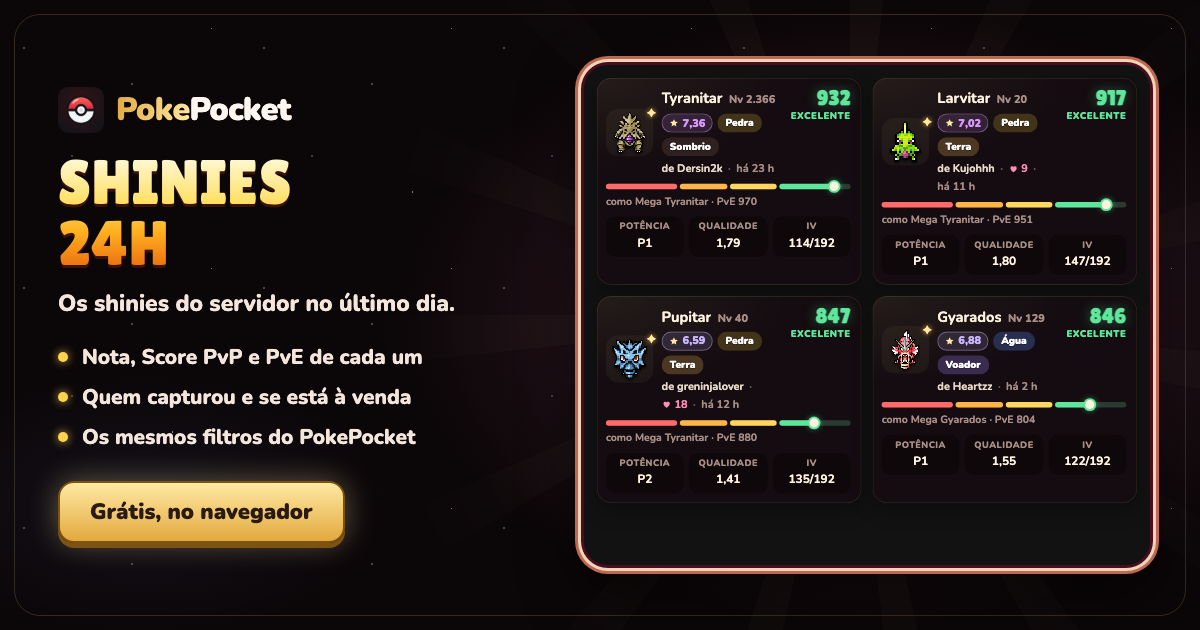
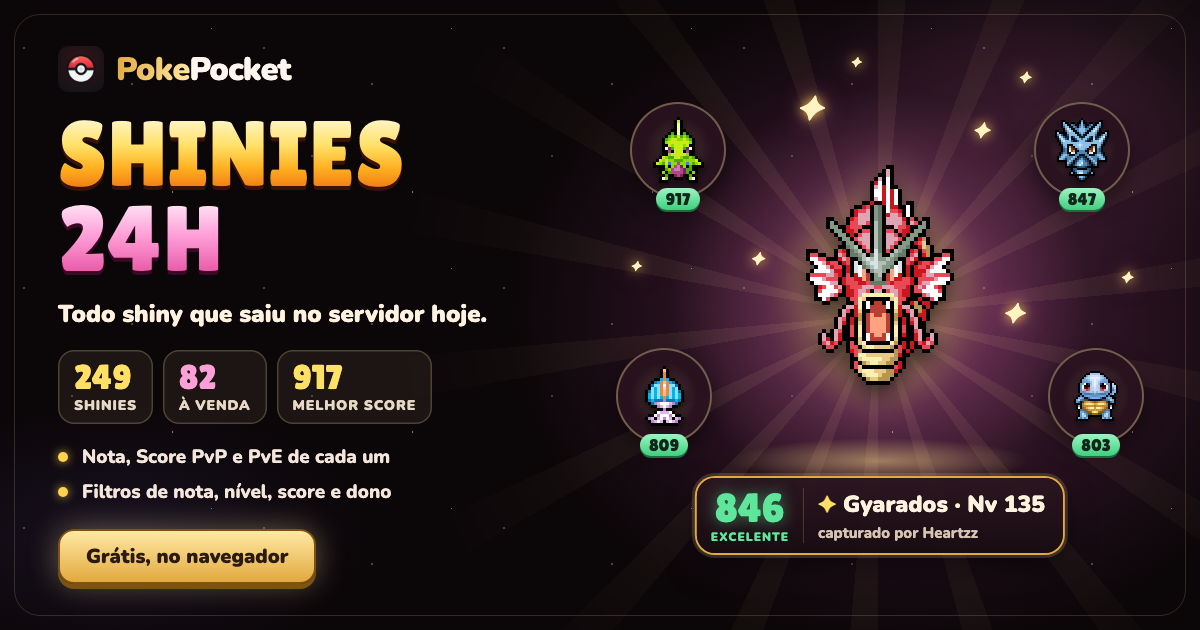
feat(shinies): prévia de link em vitrine com o shiny em destaque

diff --git a/ferramentas/previas/shinies.html b/ferramentas/previas/shinies.html
@@ -7,25 +7,95 @@
 <title>Prévia dos Shinies 24h</title>
 <link rel="stylesheet" href="base.css" />
 <style>
-h1 { font-family: "Lilita"; font-weight: 400; font-size: 62px; line-height: 0.98; letter-spacing: 0.01em; text-transform: uppercase; background: linear-gradient(180deg, #fffbe0 0%, #ffe066 40%, #ffb020 65%, #e8650f 100%); -webkit-background-clip: text; background-clip: text; color: transparent; filter: drop-shadow(0 3px 0 #3b1208); }
-.sub { margin-top: 14px; font-size: 23px; font-weight: 800; color: #f5e6dc; }
-.painel { position: absolute; left: 584px; top: 50%; width: 566px; height: 500px; overflow: hidden; border-radius: 24px; transform: translateY(-50%); background: #2b1a22; box-shadow: 0 0 0 3px #480e1e, 0 0 0 6px #f1d3b7, 0 0 0 9px #bd6951, 0 24px 60px rgba(0, 0, 0, 0.6); }
-.painel iframe { position: absolute; left: 0; top: 0; width: 620px; height: 560px; border: 0; background: transparent; transform: scale(0.913); transform-origin: 0 0; }
+.fundo { background: radial-gradient(48% 75% at 76% 50%, #4a1f3c 0%, transparent 70%), radial-gradient(30% 40% at 88% 18%, rgba(255, 126, 200, 0.16), transparent 70%), radial-gradient(30% 30% at 10% 85%, rgba(140, 120, 255, 0.1), transparent 70%), #0b0608; }
+.raios { left: 878px; background: repeating-conic-gradient(rgba(255, 220, 140, 0.09) 0deg 5deg, transparent 5deg 20deg); }
+h1 { margin-top: 20px; font-family: "Lilita"; font-weight: 400; font-size: 92px; line-height: 0.92; letter-spacing: 0.01em; text-transform: uppercase; }
+h1 span { display: block; background: linear-gradient(180deg, #fffbe0 0%, #ffe066 40%, #ffb020 66%, #e8650f 100%); -webkit-background-clip: text; background-clip: text; color: transparent; filter: drop-shadow(0 4px 0 #3b1208); }
+h1 span + span { background: linear-gradient(180deg, #fff0fb 0%, #ff9fd8 45%, #e2489a 100%); -webkit-background-clip: text; background-clip: text; filter: drop-shadow(0 4px 0 #3a0a24); }
+.sub { margin-top: 16px; font-size: 24px; font-weight: 900; color: #fff3df; }
+.nums { display: flex; gap: 10px; margin-top: 20px; }
+.num { display: grid; gap: 2px; padding: 10px 16px 9px; border-radius: 16px; background: rgba(255, 233, 163, 0.07); box-shadow: inset 0 0 0 1.5px rgba(255, 233, 163, 0.22); }
+.num b { font-family: "Lilita"; font-weight: 400; font-size: 34px; line-height: 1; color: #ffe066; }
+.num.rosa b { color: #ff9fd8; }
+.num small { font-size: 14px; font-weight: 900; color: #e8d8c6; text-transform: uppercase; letter-spacing: 0.06em; }
+.lista { margin-top: 20px; gap: 9px; }
+.lista li { font-size: 19px; }
+.botao { margin-top: 24px; font-size: 20px; padding: 12px 26px; }
+
+.palco { position: absolute; left: 600px; top: 0; width: 560px; height: 630px; }
+.aura { position: absolute; left: 280px; top: 300px; width: 420px; height: 420px; margin: -210px 0 0 -210px; border-radius: 50%; background: radial-gradient(closest-side, rgba(255, 214, 110, 0.42), rgba(255, 126, 200, 0.18) 55%, transparent); }
+.chao { position: absolute; left: 280px; top: 438px; width: 300px; height: 46px; margin-left: -150px; border-radius: 50%; background: radial-gradient(closest-side, rgba(255, 220, 140, 0.5), transparent); }
+.heroi { position: absolute; left: 280px; top: 300px; display: grid; place-items: center; width: 290px; height: 290px; margin: -170px 0 0 -145px; }
+.heroi img { image-rendering: pixelated; filter: drop-shadow(0 10px 10px rgba(0, 0, 0, 0.6)) drop-shadow(0 0 22px rgba(255, 220, 140, 0.45)); }
+.placa { position: absolute; left: 280px; top: 478px; display: flex; align-items: center; gap: 14px; padding: 10px 18px 10px 14px; border-radius: 18px; transform: translateX(-50%); white-space: nowrap; background: linear-gradient(180deg, rgba(43, 22, 32, 0.96), rgba(24, 12, 18, 0.96)); box-shadow: 0 0 0 2px #e2a93f, 0 0 0 5px rgba(255, 233, 163, 0.16), 0 14px 30px rgba(0, 0, 0, 0.5); }
+.placa .sc { display: grid; justify-items: center; line-height: 1; padding-right: 14px; border-right: 1px solid rgba(255, 233, 163, 0.2); }
+.placa .sc b { font-family: "Lilita"; font-weight: 400; font-size: 40px; color: #5ee69a; text-shadow: 0 0 16px rgba(94, 230, 154, 0.5); }
+.placa .sc small { margin-top: 3px; font-size: 12px; font-weight: 900; color: #5ee69a; letter-spacing: 0.08em; }
+.placa .qm { display: grid; gap: 3px; }
+.placa .qm b { font-size: 23px; font-weight: 900; color: #fff3df; }
+.placa .qm b i { font-style: normal; color: #ffe066; }
+.placa .qm small { font-size: 15px; font-weight: 800; color: #d8c4b4; }
+.mini { position: absolute; display: grid; place-items: center; width: 96px; height: 96px; margin: -48px 0 0 -48px; border-radius: 50%; background: radial-gradient(closest-side, rgba(255, 233, 163, 0.2), rgba(40, 18, 30, 0.92) 70%); box-shadow: inset 0 0 0 2px rgba(255, 233, 163, 0.35), 0 10px 22px rgba(0, 0, 0, 0.45); }
+.mini img { image-rendering: pixelated; filter: drop-shadow(0 3px 3px rgba(0, 0, 0, 0.6)); }
+.mini em { position: absolute; bottom: -12px; padding: 1px 9px; border-radius: 999px; font-style: normal; font-family: "Lilita"; font-size: 17px; color: #10261a; background: linear-gradient(180deg, #9cf5c1, #3fcf7e); box-shadow: 0 2px 0 #1d6b40; }
+.br { position: absolute; color: #fff3c4; text-shadow: 0 0 12px #ffd34d, 0 0 26px rgba(255, 126, 200, 0.6); line-height: 1; }
 </style>
 </head>
 <body>
 <div class="fundo"></div><div class="raios"></div><div class="moldura"></div>
 <div class="esq">
   <div class="marca"><img src="../../assets/icone.png" alt="" /><span><span class="p">Poke</span>Pocket</span></div>
-  <h1 style="margin-top:20px;font-size:62px">Shinies<br />24h</h1>
-  <p class="sub">Os shinies do servidor no último dia.</p>
+  <h1><span>Shinies</span><span>24h</span></h1>
+  <p class="sub">Todo shiny que saiu no servidor hoje.</p>
+  <div class="nums"><span class="num"><b id="n-total">—</b><small>shinies</small></span><span class="num rosa"><b id="n-venda">—</b><small>à venda</small></span><span class="num"><b id="n-top">—</b><small>melhor score</small></span></div>
   <ul class="lista">
     <li><i></i>Nota, Score PvP e PvE de cada um</li>
-    <li><i></i>Quem capturou e se está à venda</li>
-    <li><i></i>Os mesmos filtros do PokePocket</li>
+    <li><i></i>Filtros de nota, nível, score e dono</li>
   </ul>
   <span class="botao">Grátis, no navegador</span>
 </div>
-<div class="painel"><iframe src="../../shinies/?embed" title="Shinies 24h" scrolling="no"></iframe></div>
+<div class="palco" id="palco">
+  <div class="aura"></div><div class="chao"></div>
+</div>
+<script>
+const SPR = '../../calculadora/jogo/sprites-png/'
+const fmt = new Intl.NumberFormat('pt-BR')
+const score = (v) => { if (!(v > 0)) return 0; const x = Math.max(0, Math.min(1, (Math.log10(v) - 1) / (Math.log10(25000) - 1))); return Math.round(1000 * x ** 1.8) }
+const faixa = (s) => (s >= 700 ? 'EXCELENTE' : s >= 500 ? 'BOM' : s >= 300 ? 'REGULAR' : 'BAIXO')
+const carregar = (l) => new Promise((ok) => { const i = new Image(); i.onload = () => ok(i); i.onerror = () => ok(null); i.src = `${SPR}${l.look}.png` })
+const escalar = (img, caixa) => { const k = Math.max(1, Math.floor(caixa / Math.max(img.naturalWidth, img.naturalHeight))); img.width = img.naturalWidth * k; img.height = img.naturalHeight * k; return img }
+const brilho = (x, y, t) => { const s = document.createElement('i'); s.className = 'br'; s.textContent = '✦'; s.style.cssText = `left:${x}px;top:${y}px;font-size:${t}px`; return s }
+fetch('../../shinies/shinies.json').then((r) => r.json()).then(async (d) => {
+  const ls = d.linhas || []
+  document.getElementById('n-total').textContent = fmt.format(ls.length)
+  document.getElementById('n-venda').textContent = fmt.format(ls.filter((l) => l.an).length)
+  const vistos = new Set()
+  const ord = [...ls].sort((a, b) => (b.fz?.pvp || 0) - (a.fz?.pvp || 0)).filter((l) => !vistos.has(l.sp) && vistos.add(l.sp))
+  const escolhidos = []
+  for (const l of ord) {
+    const img = await carregar(l)
+    if (img) escolhidos.push([l, img])
+    if (escolhidos.length >= 10) break
+  }
+  const palco = document.getElementById('palco')
+  const iH = Math.max(0, escolhidos.findIndex(([, img]) => Math.max(img.naturalWidth, img.naturalHeight) >= 48))
+  const h = escolhidos[iH]
+  const outros = escolhidos.filter((_, i) => i !== iH)
+  const sh = score(h[0].fz?.pvp)
+  document.getElementById('n-top').textContent = fmt.format(Math.max(...escolhidos.map(([l]) => score(l.fz?.pvp))))
+  const heroi = document.createElement('div'); heroi.className = 'heroi'; heroi.append(escalar(h[1], 250)); palco.append(heroi)
+  const placa = document.createElement('div'); placa.className = 'placa'
+  placa.innerHTML = `<span class="sc"><b>${sh}</b><small>${faixa(sh)}</small></span><span class="qm"><b><i>✦</i> ${h[0].nome} · Nv ${fmt.format(h[0].nv)}</b><small>capturado por ${h[0].dono}</small></span>`
+  palco.append(placa)
+  const pos = [[78, 150], [482, 150], [64, 396], [496, 396]]
+  outros.slice(0, 4).forEach(([l, img], i) => {
+    const m = document.createElement('div'); m.className = 'mini'; m.style.left = `${pos[i][0]}px`; m.style.top = `${pos[i][1]}px`
+    m.append(escalar(img, 70))
+    const e = document.createElement('em'); e.textContent = score(l.fz?.pvp); m.append(e)
+    palco.append(m)
+  })
+  for (const [x, y, t] of [[196, 92, 34], [372, 120, 22], [418, 70, 16], [150, 250, 18], [402, 300, 28], [250, 56, 14], [520, 270, 16], [30, 260, 14]]) palco.append(brilho(x, y, t))
+})
+</script>
 </body>
 </html>

diff --git a/shinies/index.html b/shinies/index.html
@@ -12,12 +12,12 @@
   <meta property="og:title" content="Shinies 24h · PokePocket" />
   <meta property="og:description" content="Todos os shinies capturados no Pokéidle nas últimas 24 h, com nota, score e preço" />
   <meta property="og:url" content="https://iampiscis.github.io/pokepocket/shinies/" />
-  <meta property="og:image" content="https://iampiscis.github.io/pokepocket/assets/previa-shinies.png?v=202611280133" />
+  <meta property="og:image" content="https://iampiscis.github.io/pokepocket/assets/previa-shinies.png?v=202611280205" />
   <meta property="og:image:width" content="1200" />
   <meta property="og:image:height" content="630" />
   <meta property="og:image:alt" content="Shinies 24h no PokePocket: os shinies capturados no Pokéidle no último dia" />
   <meta name="twitter:card" content="summary_large_image" />
-  <meta name="twitter:image" content="https://iampiscis.github.io/pokepocket/assets/previa-shinies.png?v=202611280133" />
+  <meta name="twitter:image" content="https://iampiscis.github.io/pokepocket/assets/previa-shinies.png?v=202611280205" />
   <link rel="icon" href="../assets/icone.png" />
   <link rel="stylesheet" href="../assets/ferramentas.css" />
   <script src="../assets/ferramentas.js" defer></script>
